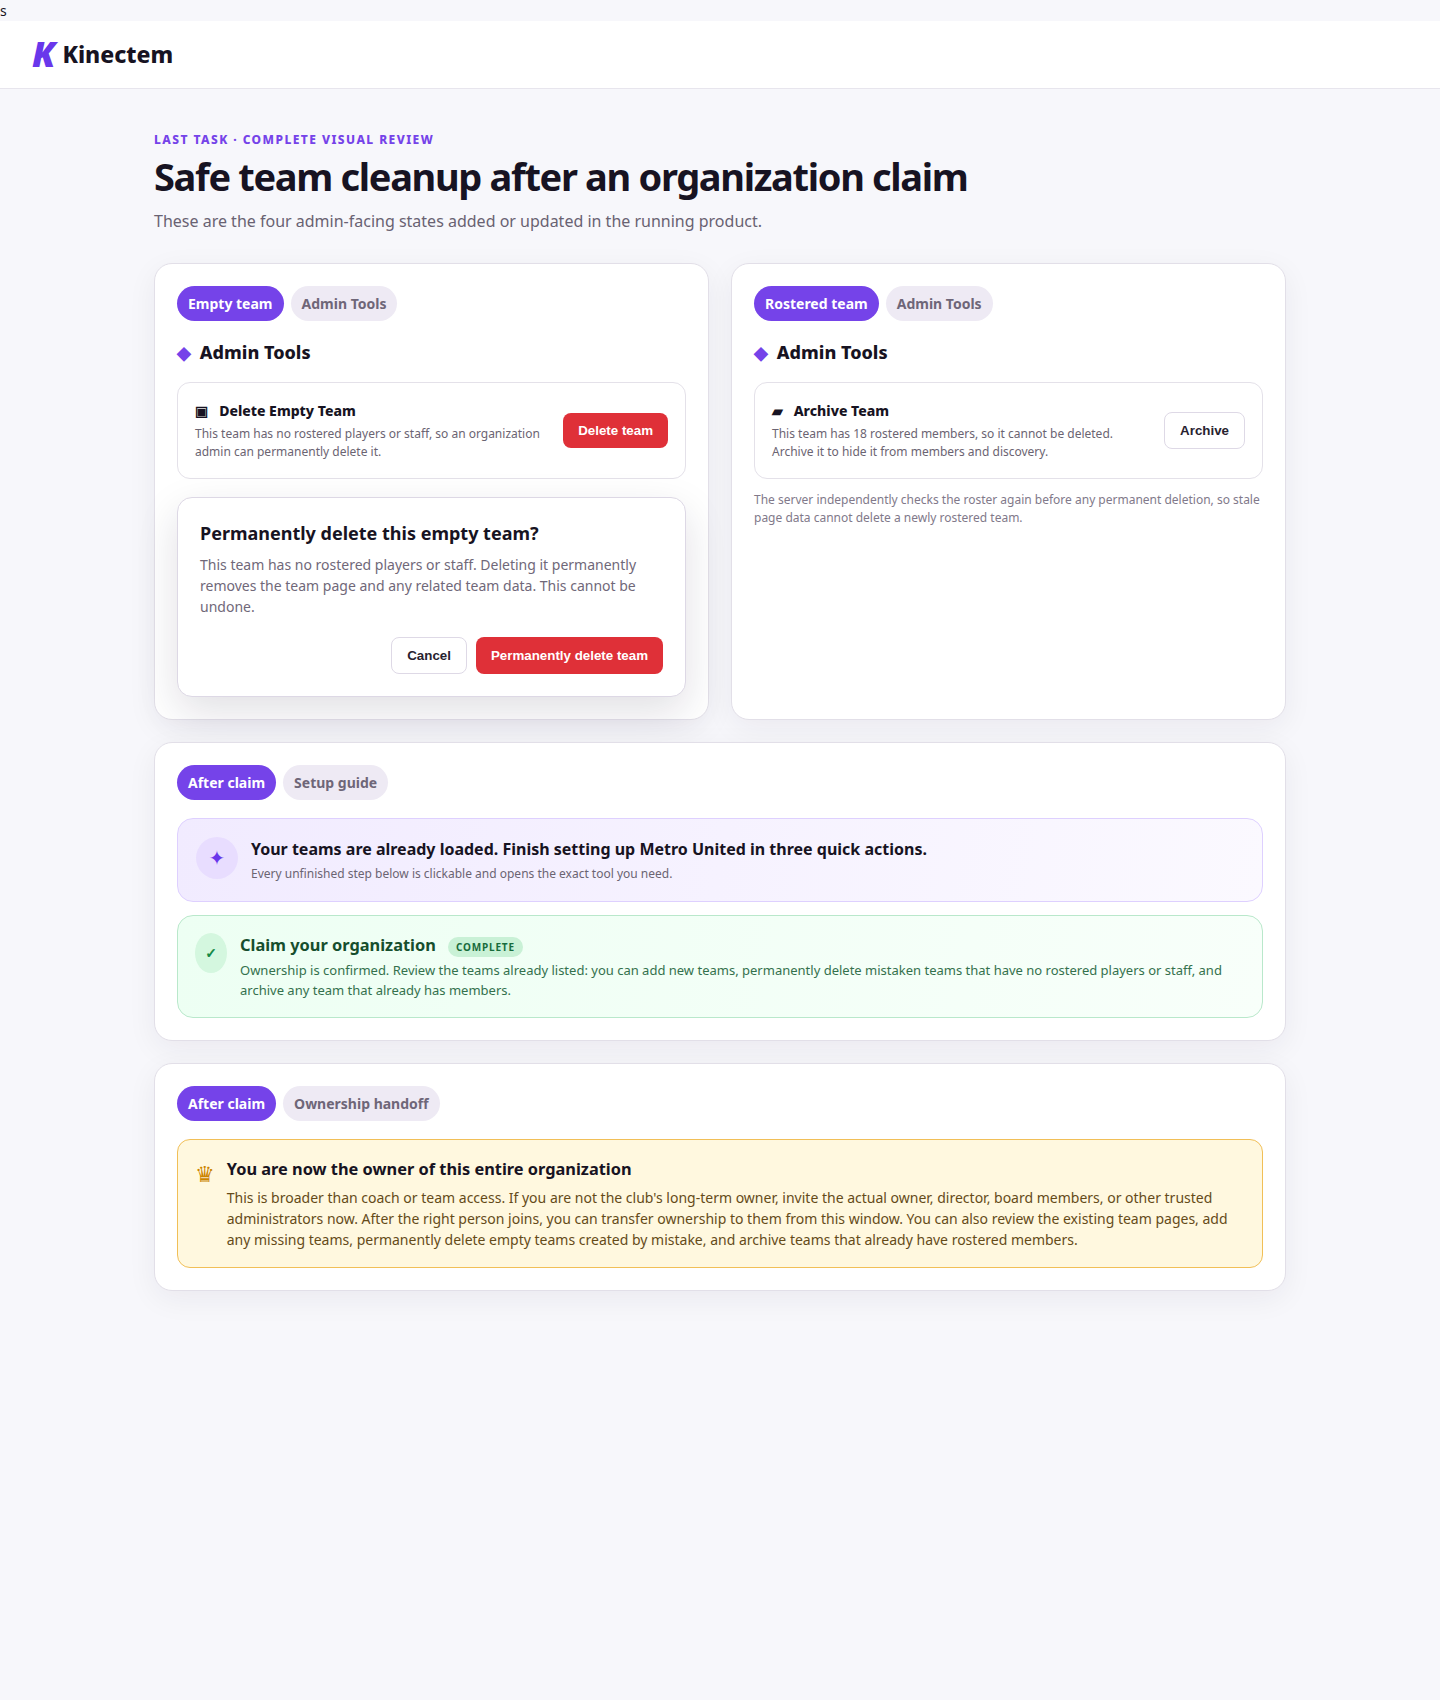
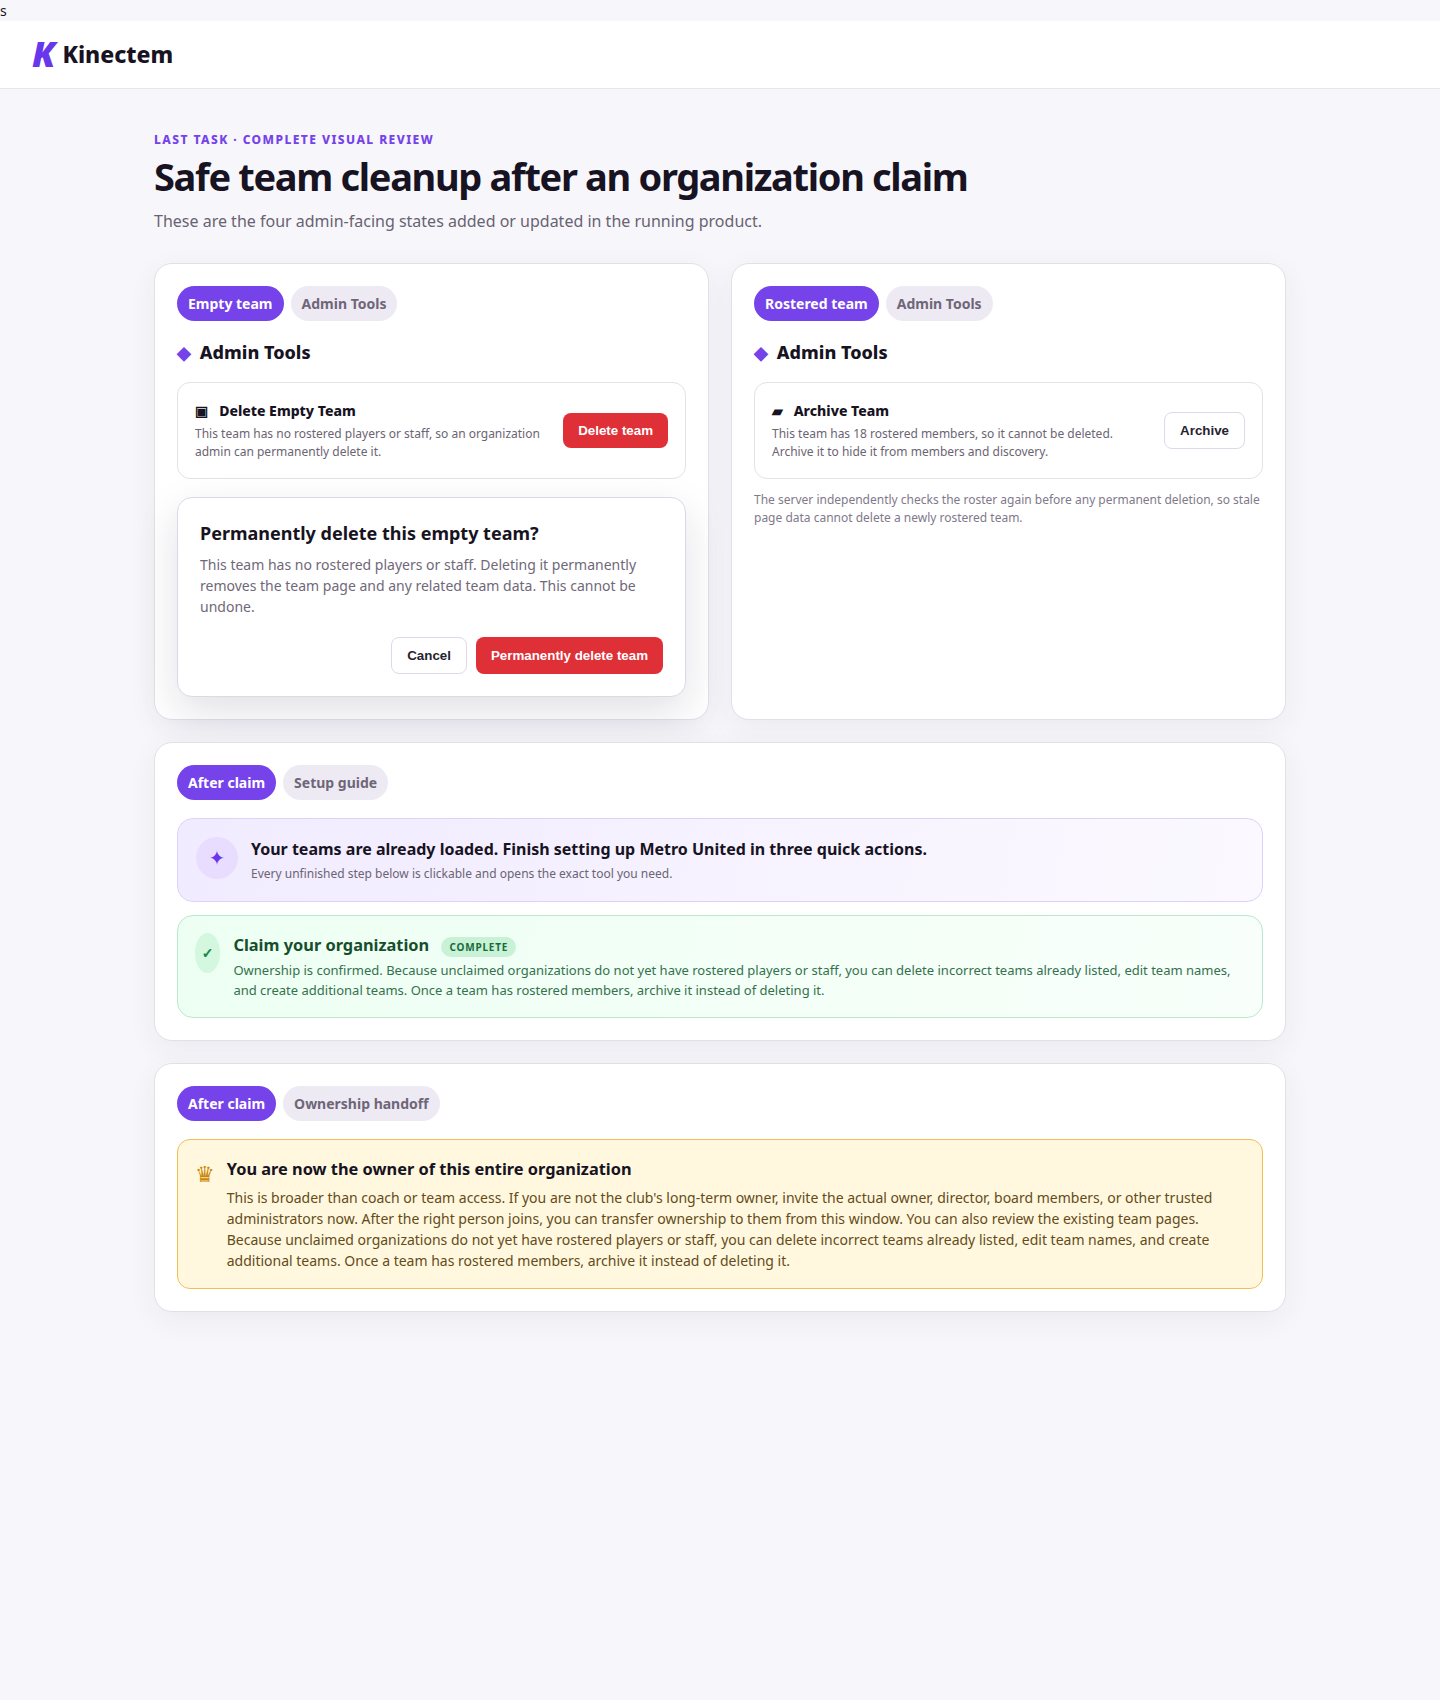
Update team management components and organization page tests
Replit-Commit-Author: Agent

Changed region(s): [[0.125, 0.7171, 0.875, 0.7794], [0.1562, 0.53, 0.8438, 0.5924]]

diff --git a/screenshots/team-cleanup-preview.html b/screenshots/team-cleanup-preview.html
@@ -61,13 +61,13 @@ s<!doctype html>
           <div class="spark">✦</div><div><h2>Your teams are already loaded. Finish setting up Metro United in three quick actions.</h2><p>Every unfinished step below is clickable and opens the exact tool you need.</p></div>
         </div>
         <div class="complete">
-          <div class="check">✓</div><div><h3>Claim your organization <span class="pill">Complete</span></h3><p>Ownership is confirmed. Review the teams already listed: you can add new teams, permanently delete mistaken teams that have no rostered players or staff, and archive any team that already has members.</p></div>
+          <div class="check">✓</div><div><h3>Claim your organization <span class="pill">Complete</span></h3><p>Ownership is confirmed. Because unclaimed organizations do not yet have rostered players or staff, you can delete incorrect teams already listed, edit team names, and create additional teams. Once a team has rostered members, archive it instead of deleting it.</p></div>
         </div>
       </section>
       <section class="panel wide">
         <div class="tabs"><span class="tab on">After claim</span><span class="tab">Ownership handoff</span></div>
         <div class="handoff">
-          <div class="crown">♛</div><div><h3>You are now the owner of this entire organization</h3><p>This is broader than coach or team access. If you are not the club's long-term owner, invite the actual owner, director, board members, or other trusted administrators now. After the right person joins, you can transfer ownership to them from this window. You can also review the existing team pages, add any missing teams, permanently delete empty teams created by mistake, and archive teams that already have rostered members.</p></div>
+          <div class="crown">♛</div><div><h3>You are now the owner of this entire organization</h3><p>This is broader than coach or team access. If you are not the club's long-term owner, invite the actual owner, director, board members, or other trusted administrators now. After the right person joins, you can transfer ownership to them from this window. You can also review the existing team pages. Because unclaimed organizations do not yet have rostered players or staff, you can delete incorrect teams already listed, edit team names, and create additional teams. Once a team has rostered members, archive it instead of deleting it.</p></div>
         </div>
       </section>
     </div>

diff --git a/artifacts/kinectem/src/pages/OrganizationPage.test.tsx b/artifacts/kinectem/src/pages/OrganizationPage.test.tsx
@@ -53,9 +53,11 @@ vi.mock("@/components/ManageMembersDialog", () => ({
       <div data-testid="dialog-manage-members">
         {ownershipHandoff && (
           <div data-testid="ownership-handoff-message">
-            You are now the owner of this entire organization. You can add any
-            missing teams, permanently delete empty teams created by mistake,
-            and archive teams that already have rostered members.
+            You are now the owner of this entire organization. Because
+            unclaimed organizations do not yet have rostered players or staff,
+            you can delete incorrect teams already listed, edit team names,
+            and create additional teams. Once a team has rostered members,
+            archive it instead of deleting it.
           </div>
         )}
         <button type="button" onClick={() => onOpenChange(false)}>
@@ -517,13 +519,16 @@ describe("OrganizationPage — admin control gating", () => {
       "You are now the owner of this entire organization",
     );
     expect(screen.getByTestId("ownership-handoff-message")).toHaveTextContent(
-      "add any missing teams",
+      "delete incorrect teams already listed",
     );
     expect(screen.getByTestId("ownership-handoff-message")).toHaveTextContent(
-      "delete empty teams created by mistake",
+      "edit team names",
     );
     expect(screen.getByTestId("ownership-handoff-message")).toHaveTextContent(
-      "archive teams that already have rostered members",
+      "create additional teams",
+    );
+    expect(screen.getByTestId("ownership-handoff-message")).toHaveTextContent(
+      "archive it instead of deleting it",
     );
     expect(screen.queryByTestId("dialog-org-pre-invite")).not.toBeInTheDocument();
     expect(localStorage.getItem(ORG_TOUR_STORAGE_KEY)).toBeNull();

diff --git a/artifacts/kinectem/src/components/ManageMembersDialog.tsx b/artifacts/kinectem/src/components/ManageMembersDialog.tsx
@@ -358,9 +358,11 @@ export function ManageMembersDialog({
                     director, board members, or other trusted administrators
                     now. After the right person joins, you can transfer
                     ownership to them from this window. You can also review the
-                    existing team pages, add any missing teams, permanently
-                    delete empty teams created by mistake, and archive teams
-                    that already have rostered members.
+                    existing team pages. Because unclaimed organizations do
+                    not yet have rostered players or staff, you can delete
+                    incorrect teams already listed, edit team names, and
+                    create additional teams. Once a team has rostered members,
+                    archive it instead of deleting it.
                   </p>
                 </div>
               </div>

diff --git a/artifacts/kinectem/src/components/PostClaimSetupGuide.test.tsx b/artifacts/kinectem/src/components/PostClaimSetupGuide.test.tsx
@@ -19,13 +19,16 @@ describe("PostClaimSetupGuide", () => {
       "Complete",
     );
     expect(screen.getByTestId("setup-step-claim-complete")).toHaveTextContent(
-      "add new teams",
+      "delete incorrect teams already listed",
     );
     expect(screen.getByTestId("setup-step-claim-complete")).toHaveTextContent(
-      "delete mistaken teams",
+      "edit team names",
     );
     expect(screen.getByTestId("setup-step-claim-complete")).toHaveTextContent(
-      "archive any team that already has members",
+      "create additional teams",
+    );
+    expect(screen.getByTestId("setup-step-claim-complete")).toHaveTextContent(
+      "archive it instead of deleting it",
     );
 
     const actions = [

diff --git a/artifacts/kinectem/src/components/PostClaimSetupGuide.tsx b/artifacts/kinectem/src/components/PostClaimSetupGuide.tsx
@@ -22,7 +22,7 @@ const STEPS: Array<{
     number: 1,
     title: "Claim your organization",
     description:
-      "Ownership is confirmed. Review the teams already listed: you can add new teams, permanently delete mistaken teams that have no rostered players or staff, and archive any team that already has members.",
+      "Ownership is confirmed. Because unclaimed organizations do not yet have rostered players or staff, you can delete incorrect teams already listed, edit team names, and create additional teams. Once a team has rostered members, archive it instead of deleting it.",
     Icon: CheckCircle2,
   },
   {

diff --git a/.agents/memory/team-removal-safety.md b/.agents/memory/team-removal-safety.md
@@ -7,4 +7,4 @@ Organization owners, organization admins, and platform admins may permanently de
 
 **Why:** Claimed organizations need a fast way to remove mistaken empty team pages created during setup, but existing team membership makes permanent deletion too destructive.
 
-**How to apply:** Enforce the roster check in the same locked transaction as deletion, not only in the client. Show the applicable action and reason clearly on the team page. Organization admins may archive and unarchive; ordinary members may not.
+**How to apply:** Enforce the roster check in the same locked transaction as deletion, not only in the client. Show the applicable action and reason clearly on the team page. Organization admins may archive and unarchive; ordinary members may not. First-claim messaging may say claimants can delete incorrect listed teams because unclaimed organizations have no rosters, but it must also explain that teams with members are archived instead. Mention that claimants can edit team names and create additional teams.
